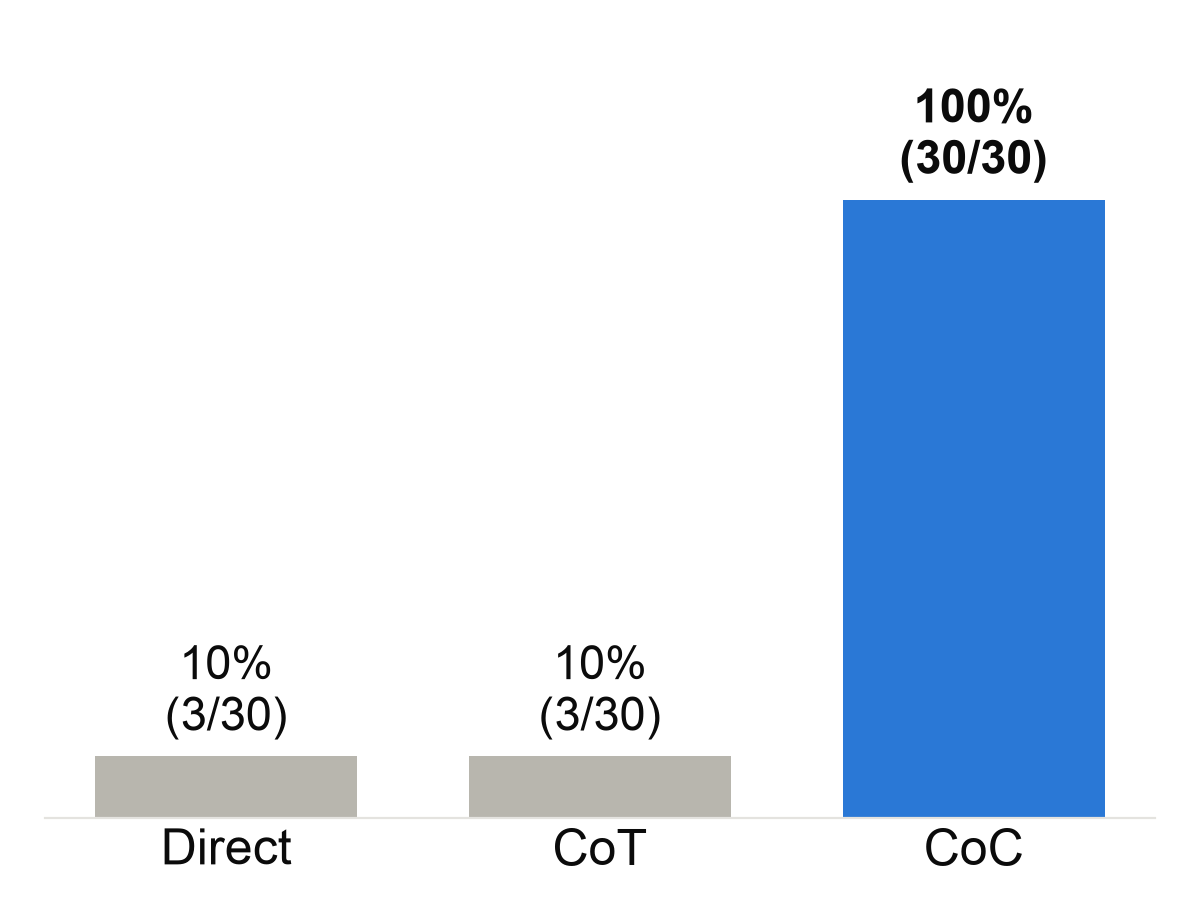
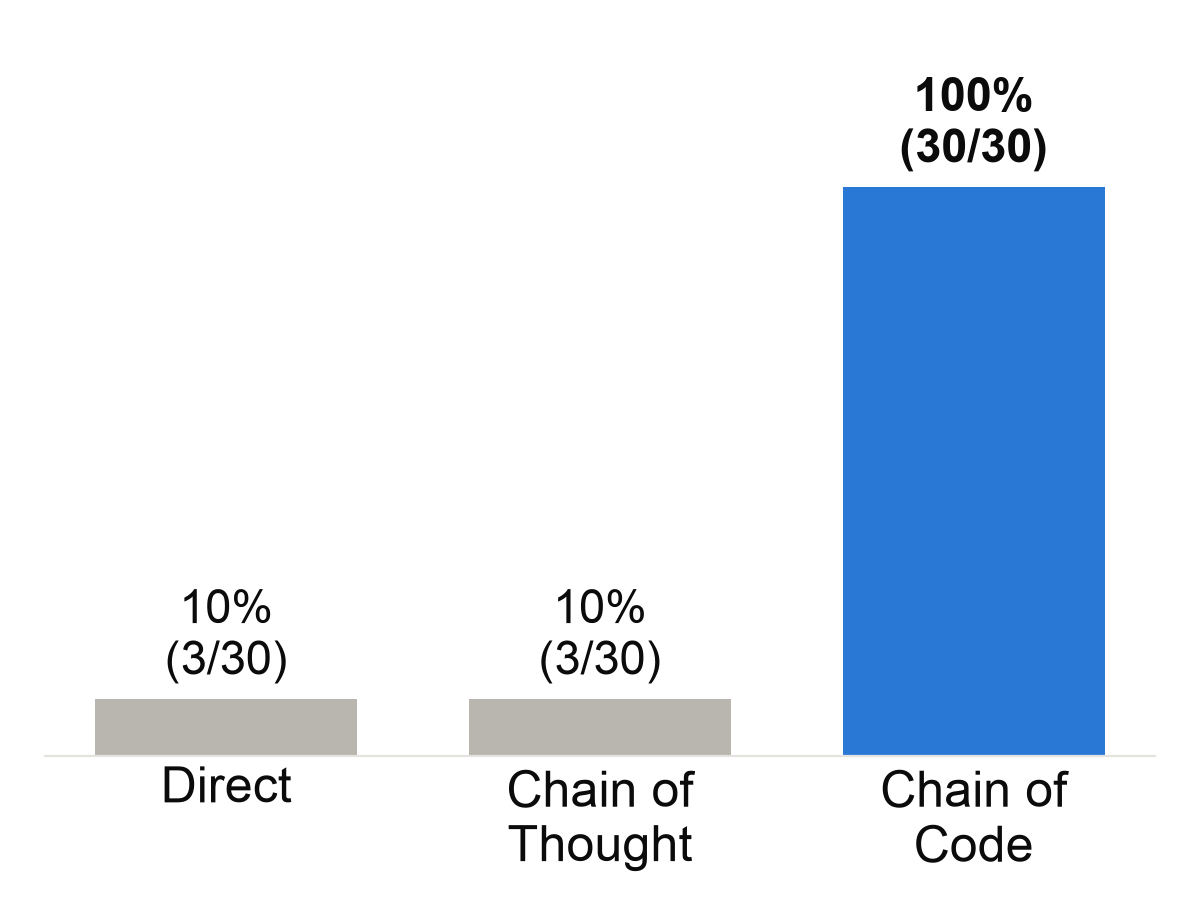
Add context and impact slides; spell out method names
- New slide 3: models of late 2023 (logos) and how Chain of Thought
  and Program of Thoughts were done with few-shot prompts
- New slide 10: impact of the paper (ICML oral, citations, follow-ups)
- Charts and slide text say Chain of Thought / Chain of Code, not CoT / CoC
- Fuller model line on the demo slide; smaller References text
- Render only slides.qmd (stops seans_demo.md and the notebook landing in docs/)
- Demo: print the Q: lines in blue

diff --git a/docs/slides.html b/docs/slides.html
@@ -6,8 +6,8 @@
 <script src="slides_files/libs/quarto-html/tippy.umd.min.js"></script>
 <link href="slides_files/libs/quarto-html/tippy.css" rel="stylesheet">
 <link href="slides_files/libs/quarto-html/light-border.css" rel="stylesheet">
-<link href="slides_files/libs/quarto-html/quarto-syntax-highlighting-64a204ab8560d761af7679ceaba22944.css" rel="stylesheet" id="quarto-text-highlighting-styles"><meta charset="utf-8">
-  <meta name="generator" content="quarto-1.10.18">
+<link href="slides_files/libs/quarto-html/quarto-syntax-highlighting-bf27225e3a48a9273f3daa8f8e829971.css" rel="stylesheet" id="quarto-text-highlighting-styles"><meta charset="utf-8">
+  <meta name="generator" content="quarto-1.10.19">
 
   <title>Chain of Code</title>
   <meta name="apple-mobile-web-app-capable" content="yes">
@@ -160,6 +160,60 @@
 <aside><div>
 <p><a href="https://x.com/DrJimFan/status/1816521330298356181">Jim Fan, X, July 2024</a></p>
 </div></aside></section>
+<section id="context-late-2023" class="slide level2 small-title">
+<h2>Context: Late 2023</h2>
+<div class="logo-row">
+<div class="logo">
+<p><img data-src="images/logo-openai.png"></p>
+<p><strong>GPT-3.5, GPT-4</strong><br>
+Nov 2022, Mar 2023</p>
+</div>
+<div class="logo">
+<p><img data-src="images/logo-google.png"></p>
+<p><strong>PaLM 2</strong><br>
+May 2023</p>
+</div>
+<div class="logo">
+<p><img data-src="images/logo-anthropic.png"></p>
+<p><strong>Claude 2</strong><br>
+Jul 2023</p>
+</div>
+<div class="logo">
+<p><img data-src="images/logo-meta.png"></p>
+<p><strong>Llama 2</strong><br>
+Jul 2023</p>
+</div>
+<div class="logo">
+<p><img data-src="images/logo-gemini.png"></p>
+<p><strong>Gemini</strong><br>
+Dec 2023</p>
+</div>
+</div>
+<div style="text-align: center; font-size: 60%;">
+<p>Chain of Code tested GPT-3.5, GPT-4, and PaLM 2.</p>
+</div>
+<div class="columns">
+<div class="column small-text" style="width:50%;">
+<p><span class="method-header">Chain of Thought</span> (Wei et al., 2022)</p>
+<ul>
+<li>Prompt shows worked examples, reasoning in words</li>
+<li>Model does the math itself, in text</li>
+</ul>
+</div><div class="column small-text" style="width:50%;">
+<p><span class="method-header">Program of Thoughts</span> (Chen et al., 2022)</p>
+<ul>
+<li>Prompt shows worked examples, solved in Python</li>
+<li>Model writes code; Python runs it</li>
+<li>Fails if a step can’t be written as code</li>
+</ul>
+</div></div>
+<div style="text-align: center; font-size: 60%;">
+<p>Both were just few-shot prompts, with no extra training.</p>
+</div>
+
+<aside><div>
+<p><a href="https://commons.wikimedia.org/">Logos: Wikimedia Commons (public domain)</a></p>
+</div></aside></section>
 <section id="example-problem-requiring-both-language-and-math" class="slide level2 small-title">
 <h2>Example Problem Requiring Both Language and Math</h2>
 <div style="font-size: 70%;">
@@ -245,7 +299,7 @@
 <div style="display: table; margin: -1.2em auto 0; font-size: 80%;">
 <ul>
 <li>Average accuracy on BIG-Bench Hard.</li>
-<li>On language tasks, CoC still matches CoT.</li>
+<li>On language tasks, Chain of Code still matches Chain of Thought.</li>
 </ul>
 </div>
 
@@ -275,7 +329,7 @@
 <blockquote>
 <p>Of the birthdays of Banting, Curie, Darwin, Einstein, Gauss, Hawking, Lovelace, Rutherford, Tesla, and Turing that are at least 100 days before or after <strong>15 March 2027</strong>, whose is closest?</p>
 </blockquote>
-<p>Qwen2.5-Coder 7B (base model) on a laptop · three worked examples per method</p>
+<p>Qwen2.5-Coder 7B base (Alibaba, 2024) · running locally with Ollama · 4.7 GB · three worked examples per method</p>
 </div>
 <div class="columns">
 <div class="column chart-column" style="width:50%;">
@@ -286,6 +340,21 @@
 <p><img data-src="images/demo-steps.png" style="width:92.0%"></p>
 </div></div>
 </section>
+<section id="impact-of-chain-of-code" class="slide level2">
+<h2>Impact of Chain of Code</h2>
+<div class="middle" style="font-size: 85%;">
+<ul>
+<li>Oral presentation at ICML 2024</li>
+<li>Cited by 200+ papers</li>
+<li>Follow-up work on when to write code vs.&nbsp;reason in words (Chen et al., ICLR 2025)</li>
+<li>Models are now trained to reason step by step on their own, without few-shot prompts</li>
+<li>Today’s reasoning models run code in the middle of their reasoning (OpenAI o3, 2025)</li>
+</ul>
+</div>
+
+<aside><div>
+<p><a href="https://scholar.google.com/scholar?q=%22Chain+of+Code%3A+Reasoning+with+a+Language+Model-Augmented+Code+Emulator%22">Citations: Google Scholar, Oct 2026</a> · <a href="https://openai.com/index/introducing-o3-and-o4-mini/">OpenAI, Introducing o3 and o4-mini, Apr 2025</a></p>
+</div></aside></section>
 <section id="summary-and-conclusion" class="slide level2">
 <h2>Summary and Conclusion</h2>
 <div class="middle" style="font-size: 85%;">
@@ -303,12 +372,14 @@
 </div></aside></section>
 <section id="references" class="slide level2">
 <h2>References</h2>
-<div class="references" style="font-size: 60%;">
+<div class="references" style="font-size: 50%;">
 <p>Li, C., Liang, J., Zeng, A., Chen, X., Hausman, K., Sadigh, D., Levine, S., Fei-Fei, L., Xia, F., &amp; Ichter, B. (2024). <em>Chain of Code: Reasoning with a Language Model-Augmented Code Emulator.</em> Proceedings of the 41st International Conference on Machine Learning (ICML), PMLR 235.</p>
 <ul>
 <li>Paper: <a href="https://arxiv.org/abs/2312.04474" class="uri">https://arxiv.org/abs/2312.04474</a></li>
 <li>Project page: <a href="https://chain-of-code.github.io/" class="uri">https://chain-of-code.github.io/</a></li>
 </ul>
+<p>Wei, J., Wang, X., Schuurmans, D., Bosma, M., Ichter, B., Xia, F., Chi, E., Le, Q., &amp; Zhou, D. (2022). <em>Chain-of-Thought Prompting Elicits Reasoning in Large Language Models.</em> NeurIPS 2022. <a href="https://arxiv.org/abs/2201.11903" class="uri">https://arxiv.org/abs/2201.11903</a></p>
+<p>Chen, W., Ma, X., Wang, X., &amp; Cohen, W. W. (2022). <em>Program of Thoughts Prompting: Disentangling Computation from Reasoning for Numerical Reasoning Tasks.</em> arXiv:2211.12588. <a href="https://arxiv.org/abs/2211.12588" class="uri">https://arxiv.org/abs/2211.12588</a></p>
 <p>Suzgun, M., Scales, N., Schärli, N., Gehrmann, S., et al.&nbsp;(2022). <em>Challenging BIG-Bench Tasks and Whether Chain-of-Thought Can Solve Them.</em> arXiv:2210.09261. <a href="https://arxiv.org/abs/2210.09261" class="uri">https://arxiv.org/abs/2210.09261</a></p>
 <p>Hui, B., Yang, J., Cui, Z., Yang, J., et al.&nbsp;(2024). <em>Qwen2.5-Coder Technical Report.</em> arXiv:2409.12186. <a href="https://arxiv.org/abs/2409.12186" class="uri">https://arxiv.org/abs/2409.12186</a><br>
 Demo model: qwen2.5-coder:7b-base via Ollama, <a href="https://ollama.com/library/qwen2.5-coder" class="uri">https://ollama.com/library/qwen2.5-coder</a></p>

diff --git a/docs/styles.css b/docs/styles.css
@@ -78,3 +78,22 @@
   font-weight: bold;
   font-size: 1.2em;
 }
+
+/* A row of logos with a caption under each: ::: {.logo-row} holding ::: {.logo} blocks */
+.reveal .logo-row {
+  display: flex;
+  gap: 1em;
+  text-align: center;
+  font-size: 50%;
+  margin-top: 0.5em;
+}
+.reveal .logo-row .logo {
+  flex: 1;
+}
+.reveal .logo-row img {
+  width: 80%;
+  height: 56px;
+  object-fit: contain;
+  margin: 0 auto;
+  display: block;
+}

diff --git a/styles.css b/styles.css
@@ -78,3 +78,22 @@
   font-weight: bold;
   font-size: 1.2em;
 }
+
+/* A row of logos with a caption under each: ::: {.logo-row} holding ::: {.logo} blocks */
+.reveal .logo-row {
+  display: flex;
+  gap: 1em;
+  text-align: center;
+  font-size: 50%;
+  margin-top: 0.5em;
+}
+.reveal .logo-row .logo {
+  flex: 1;
+}
+.reveal .logo-row img {
+  width: 80%;
+  height: 56px;
+  object-fit: contain;
+  margin: 0 auto;
+  display: block;
+}

diff --git a/docs/slides_files/libs/quarto-html/quarto-syntax-highlighting-bf27225e3a48a9273f3daa8f8e829971.css b/docs/slides_files/libs/quarto-html/quarto-syntax-highlighting-bf27225e3a48a9273f3daa8f8e829971.css
@@ -233,4 +233,4 @@ code span.wa {
   content: "</";
 }
 
-/*# sourceMappingURL=9d8d5bb603a83b8298b89080a598c93b.css.map */
+/*# sourceMappingURL=8be38f48d34c45af72792cbd699585e7.css.map */

diff --git a/make_charts.py b/make_charts.py
@@ -27,18 +27,19 @@ def clean_axes(ax):
 def task_type_chart():
     """Figure 4 / Table A1: average BIG-Bench Hard accuracy by task type."""
     groups = {"Algorithmic tasks": [41, 71, 95], "Language tasks": [67, 74, 74]}
-    methods = ["Direct", "CoT", "CoC"]
+    methods = ["Direct", "Chain of\nThought", "Chain of\nCode"]
     fig, ax = plt.subplots(figsize=(9, 4.6), dpi=200)
     positions, labels = [], []
     for g, (group, scores) in enumerate(groups.items()):
         for m, (method, score) in enumerate(zip(methods, scores)):
             x = g * 4 + m
-            ax.bar(x, score, width=0.8, color=BLUE if method == "CoC" else GRAY)
+            is_coc = method == methods[-1]
+            ax.bar(x, score, width=0.8, color=BLUE if is_coc else GRAY)
             ax.text(x, score + 1.5, f"{score}%", ha="center", va="bottom",
-                    fontsize=17, fontweight="bold" if method == "CoC" else "normal")
+                    fontsize=17, fontweight="bold" if is_coc else "normal")
             positions.append(x)
             labels.append(method)
-        ax.text(g * 4 + 1, -17, group, ha="center", fontsize=18, color=INK)
+        ax.text(g * 4 + 1, -24, group, ha="center", fontsize=18, color=INK)
     ax.set_xticks(positions, labels)
     ax.tick_params(axis="x", length=0, labelsize=16)
     ax.set_ylim(0, 105)
@@ -81,15 +82,19 @@ def demo_charts(path="results/random-30-seed-2026.csv"):
     def total(column):
         return sum(int(r[column]) for r in rows)
 
-    def bars(items, filename):
+    def bars(items, filename, groups=()):
+        """groups: (label, x) pairs written under the bar labels, naming the method."""
         fig, ax = plt.subplots(figsize=(6, 4.6), dpi=200)
-        for x, (label, right, out_of, is_coc) in enumerate(items):
+        positions = [x + (0.4 if groups and is_coc else 0) for x, (*_, is_coc) in enumerate(items)]
+        for x, (label, right, out_of, is_coc) in zip(positions, items):
             percent = round(100 * right / out_of)
             ax.bar(x, percent, width=0.7, color=BLUE if is_coc else GRAY)
             ax.text(x, percent + 2, f"{percent}%\n({right}/{out_of})", ha="center", va="bottom",
                     fontsize=17, fontweight="bold" if is_coc else "normal")
-        ax.set_xticks(range(len(items)), [label for label, *_ in items])
+        ax.set_xticks(positions, [label for label, *_ in items])
         ax.tick_params(axis="x", length=0, labelsize=18, labelcolor=INK)
+        for group, x in groups:
+            ax.text(x, -20, group, ha="center", fontsize=16, color=INK)
         ax.set_ylim(0, 125)
         ax.set_yticks([])
         clean_axes(ax)
@@ -98,12 +103,13 @@ def demo_charts(path="results/random-30-seed-2026.csv"):
 
     n = len(rows)
     bars([("Direct", total("Direct correct"), n, False),
-          ("CoT", total("Chain of Thought correct"), n, False),
-          ("CoC", total("Chain of Code correct"), n, True)], "demo-answers.png")
-    bars([("CoT\nfacts", total("CoT fact right"), total("CoT fact checked"), False),
-          ("CoT\nmath", total("CoT math right"), total("CoT math checked"), False),
-          ("CoT\nchoices", total("CoT choice right"), total("CoT choice checked"), False),
-          ("CoC\nfacts", total("CoC birthdays right"), total("CoC birthdays checked"), True)], "demo-steps.png")
+          ("Chain of\nThought", total("Chain of Thought correct"), n, False),
+          ("Chain of\nCode", total("Chain of Code correct"), n, True)], "demo-answers.png")
+    bars([("facts", total("CoT fact right"), total("CoT fact checked"), False),
+          ("math", total("CoT math right"), total("CoT math checked"), False),
+          ("choices", total("CoT choice right"), total("CoT choice checked"), False),
+          ("facts", total("CoC birthdays right"), total("CoC birthdays checked"), True)], "demo-steps.png",
+         groups=[("Chain of Thought", 1), ("Chain of Code", 3.4)])
 
 
 if __name__ == "__main__":

diff --git a/demo.py b/demo.py
@@ -18,12 +18,17 @@ from prompts import coc_prompt, cot_prompt, direct_prompt, fmt, question
 
 PROMPTS = {"Direct": direct_prompt, "Chain of Thought": cot_prompt, "Chain of Code": coc_prompt}
 # Orange, not red, for wrong answers: red already means "Python ran this line" in the trace.
-BOLD, GREEN, ORANGE, RESET = "\033[1m", "\033[32m", "\033[38;5;208m", "\033[0m"
+BOLD, GREEN, ORANGE, BLUE, RESET = "\033[1m", "\033[32m", "\033[38;5;208m", "\033[94m", "\033[0m"
 
 
 def marked(ok: bool, text: str) -> str:
     """Text with a green ✓ if ok, else an orange ✗."""
     return f"{GREEN}✓ {text}{RESET}" if ok else f"{ORANGE}✗ {text}{RESET}"
+
+
+def blue_questions(text: str) -> str:
+    """Text with every "Q:" line in blue, so the questions stand out."""
+    return "\n".join(f"{BLUE}{line}{RESET}" if line.startswith("Q:") else line for line in text.split("\n"))
 
 
 def parse_date(text: str) -> date | None:
@@ -59,7 +64,7 @@ def print_truth(truth: list[tuple[str, date]], d: date) -> None:
 
 def main():
     d = ask_for_date()
-    print(f"\n{question(d)}")
+    print(f"\n{blue_questions(question(d))}")
     truth = answer(d)
     print()
     print_truth(truth, d)
@@ -67,7 +72,7 @@ def main():
     results = []
     for title, run in METHODS:
         pause(f"see the {title} prompt")
-        print(f"\n{BOLD}===== {title}: prompt ====={RESET}\n{PROMPTS[title](d)}")
+        print(f"\n{BOLD}===== {title}: prompt ====={RESET}\n{blue_questions(PROMPTS[title](d))}")
         pause(f"run {title}")
         print(f"\n{BOLD}===== {title}: model output ====={RESET}")
         result = run(d, stream=True)  # prints the output (and CoC trace) as it is generated
